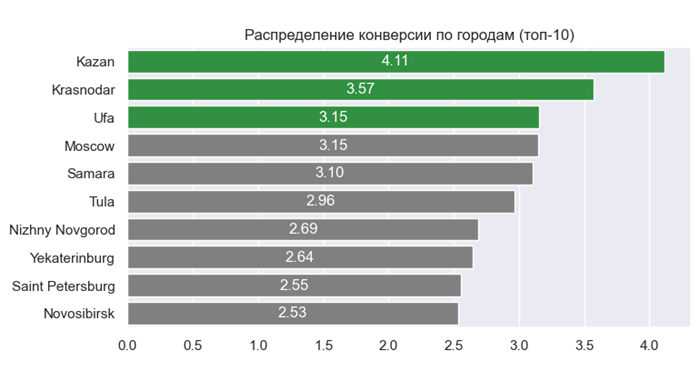
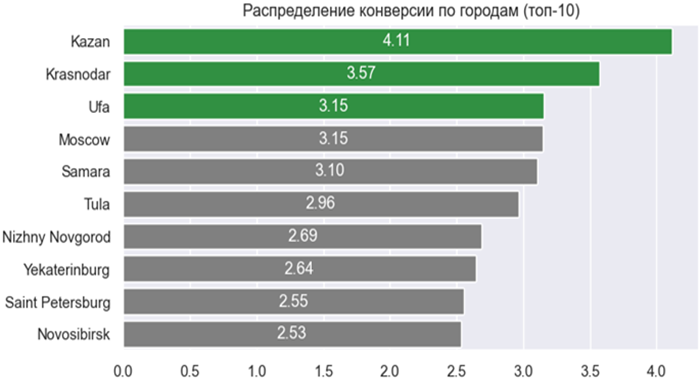
Fill one fixed frame for every chart and pin that width in the READMEs.

diff --git a/fintech_ltv/README.md b/fintech_ltv/README.md
@@ -13,7 +13,7 @@
 - Наибольший накопительный LTV — когорты **июн. и сент. 2016** — ориентир для похожего привлечения
 - Десктоп дороже и объёмнее мобильного; расходы сконцентрированы на источниках **3, 4, 5**
 
-![Средний чек](images/avg_cheque.png)
+<img src="images/avg_cheque.png" alt="Средний чек" width="700">
 
 ## Что сделано
 
@@ -23,9 +23,9 @@
 4. **Аномалии** — выбросы чеков и концентрация выручки у небольшой доли пользователей
 5. **CAC-взгляд** — расходы на трафик по устройствам и источникам
 
-![Выручка по источникам](images/source_revenue_heatmap.png)
+<img src="images/source_revenue_heatmap.png" alt="Выручка по источникам" width="700">
 
-![Накопительный LTV](images/cumulative_ltv.png)
+<img src="images/cumulative_ltv.png" alt="Накопительный LTV" width="700">
 
 ## Данные
 

diff --git a/sporting_store/README.md b/sporting_store/README.md
@@ -13,7 +13,7 @@ Email-кампания с персональной скидкой: нужно б
 - **Propensity (клиент × товар):** CV / holdout ROC-AUC ≈ 0.91 — можно ранжировать клиентов под конкретный товар
 - **4 кластера** с разными стратегиями: премиум, подростки, скидочная женская аудитория, низкая чувствительность к скидкам
 
-![Сравнение ARPU](images/ab_arpu.png)
+<img src="images/ab_arpu.png" alt="Сравнение ARPU" width="700">
 
 ## Что сделано
 
@@ -23,7 +23,7 @@ Email-кампания с персональной скидкой: нужно б
 4. **Кластеризация** — K-Prototypes, 4 сегмента и рекомендации по коммуникации
 5. **Propensity** — CatBoost на парах (клиент, товар), GroupKFold по `id`, top-N для таргетинга
 
-![ROC-кривая](images/model_roc.png)
+<img src="images/model_roc.png" alt="ROC-кривая" width="700">
 
 ## Данные
 
